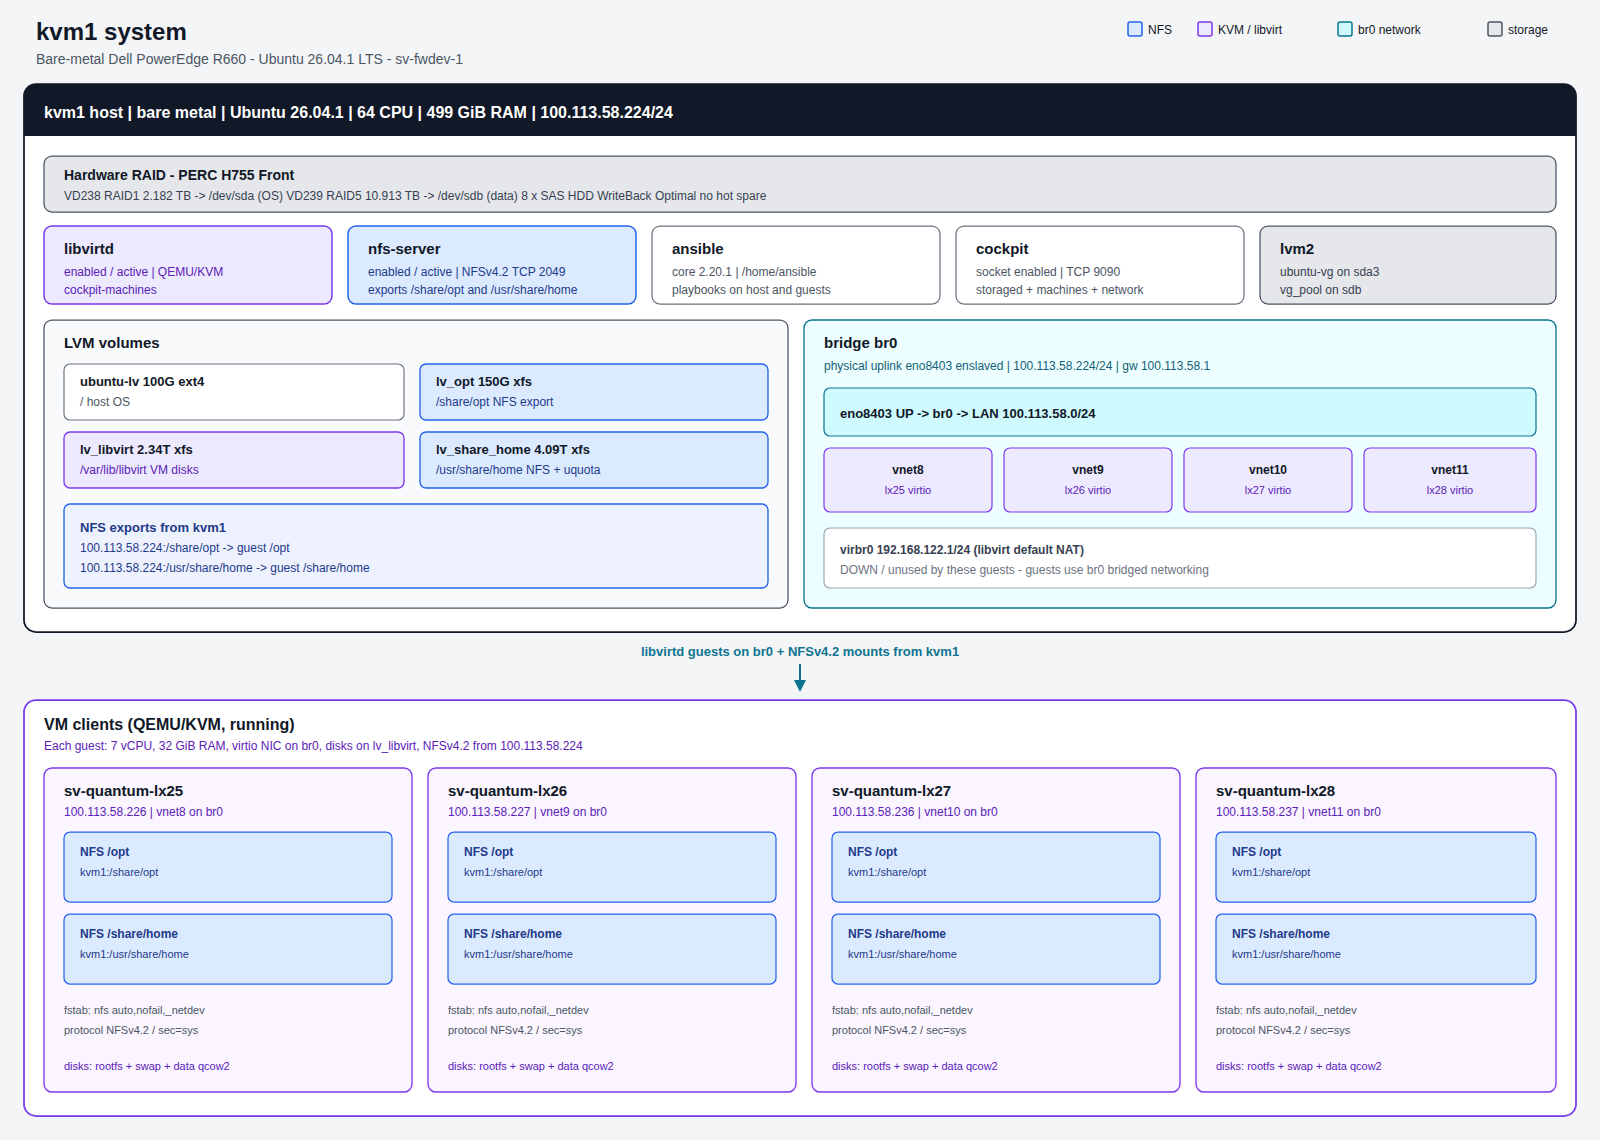
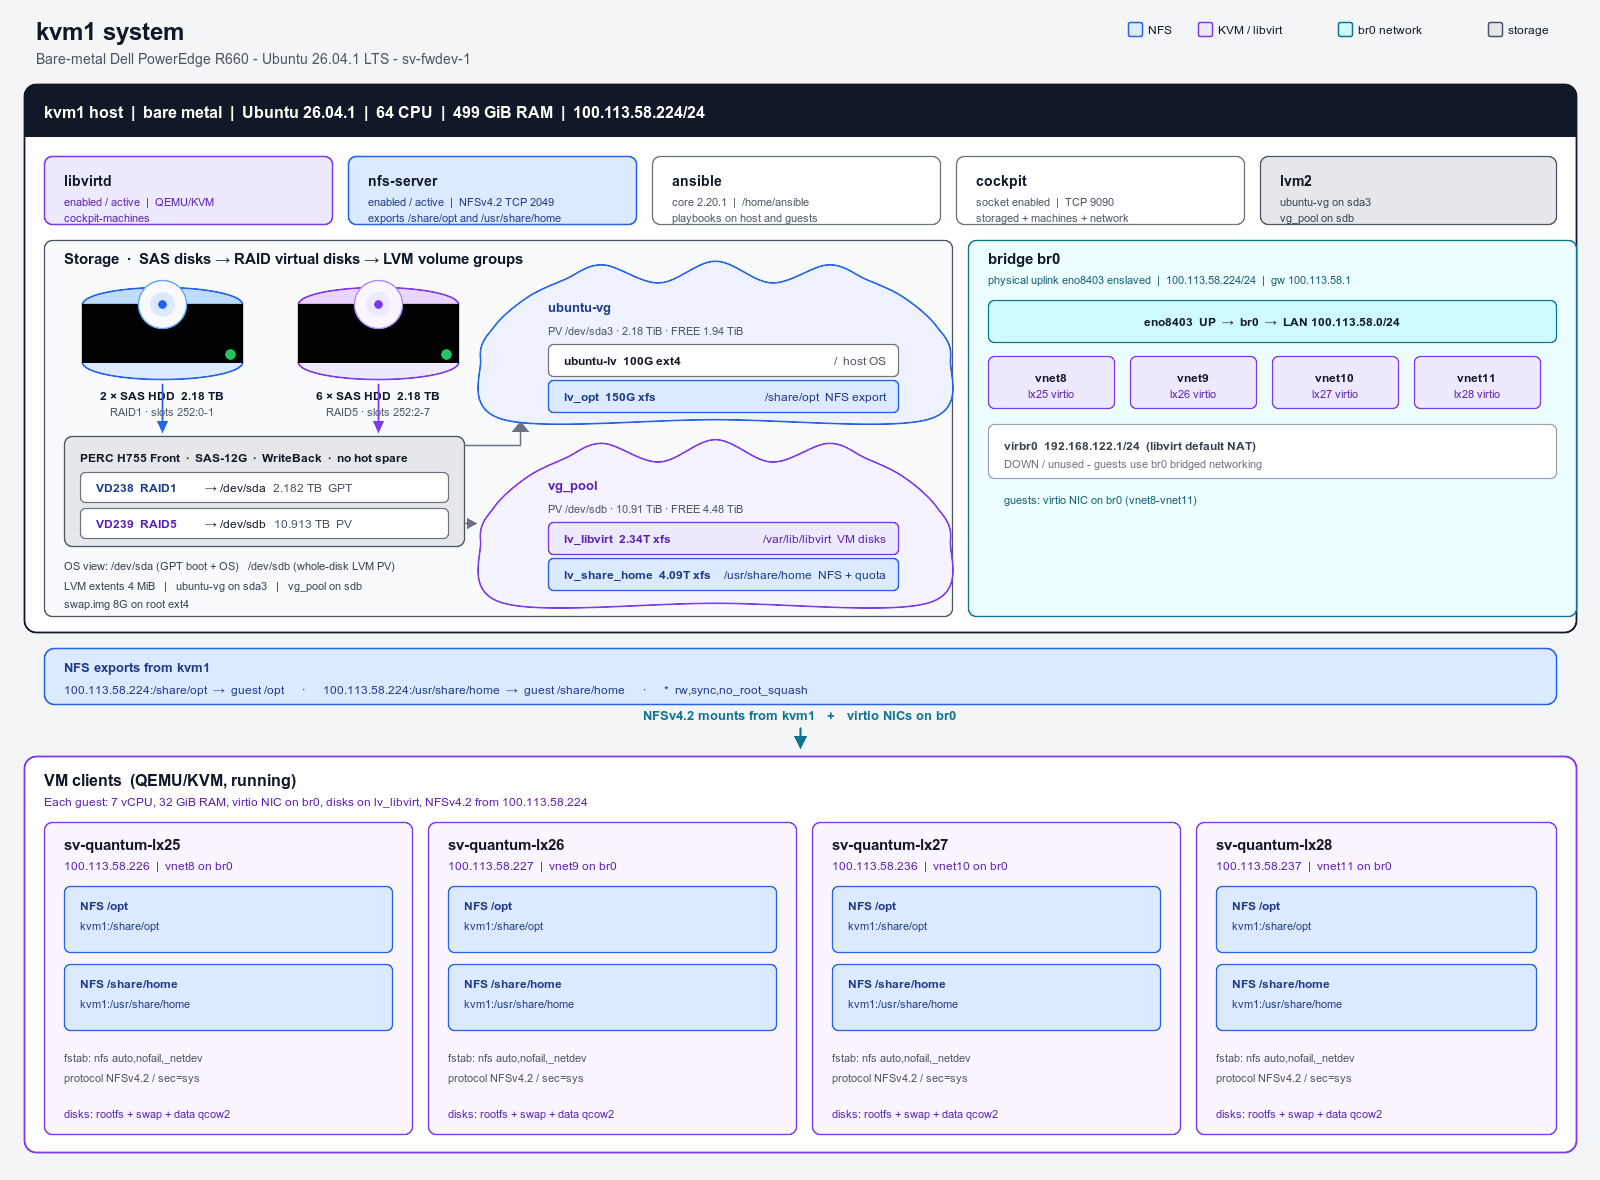
updates for images

diff --git a/README.md b/README.md
@@ -60,19 +60,19 @@ the session.
 Each row represents one user:
 
 ```text
-username,uid,gid,email,home-directory,public-key,authorized-host
+username,uid,gid,email,home-directory,public-key,allowed-hosts
 ```
 
 Example:
 
 ```csv
-username,uid,gid,email,home-directory,public-key,authorized-host
-tsandholm,3000,3000,tom.sandholm@gmail.com,/share/home/tsandholm,ssh-rsa AAA...,*
-kat,3001,3001,tom.sandholm@gmail.com,/share/home/kat,ssh-rsa AAA...,*
+username,uid,gid,email,home-directory,public-key,allowed-hosts
+tsandholm,3000,3000,tom.sandholm@gmail.com,/share/home/tsandholm,ssh-rsa AAA...,all
+kat,3001,3001,tom.sandholm@gmail.com,/share/home/kat,ssh-rsa AAA...,all
 mary,3002,3002,tom.sandholm@gmail.com,/share/home/mary,ssh-rsa AAA...,tom2-tsand-org
 ```
 
-The `authorized-host` value may be `none` to keep the user out of all machine-groups, `*` to represent all machine-groups, or a specific machine-group from `hosts.csv`. Host names are matched case-insensitively with periods and hyphens treated equivalently, so `tom4.tsand.org` matches `tom4-tsand-org`. Selecting **None** removes the user from every `hosts.csv` member list.
+The `allowed-hosts` value may be `none` to keep the user out of all machine-groups, `all` to represent all machine-groups, or a specific machine-group from `hosts.csv`. Host names are matched case-insensitively with periods and hyphens treated equivalently, so `tom4.tsand.org` matches `tom4-tsand-org`. Selecting **None** removes the user from every `hosts.csv` member list.
 
 When adding a user, the form defaults UID and GID to one higher than the highest numeric value currently assigned in `users.csv`. If either value is omitted from the submitted request, `index.php` applies the same calculation server-side. Editing an existing user preserves its current UID and GID unless they are changed explicitly.
 
@@ -220,7 +220,7 @@ That means members of `tom1-tsand-org` can log in to `tom1.tsand.org`, while
 members of another host group are not granted access there. The `ansible` and
 `sudo` groups remain listed so administrative access is retained. This is how
 the project controls which system a user can log in to: the user's
-`authorized-host` assignment determines host-group membership, and
+`allowed-hosts` assignment determines host-group membership, and
 `AllowGroups` enforces that membership at the SSH daemon.
 
 To revoke the machine-group's SSH access without removing administrative
